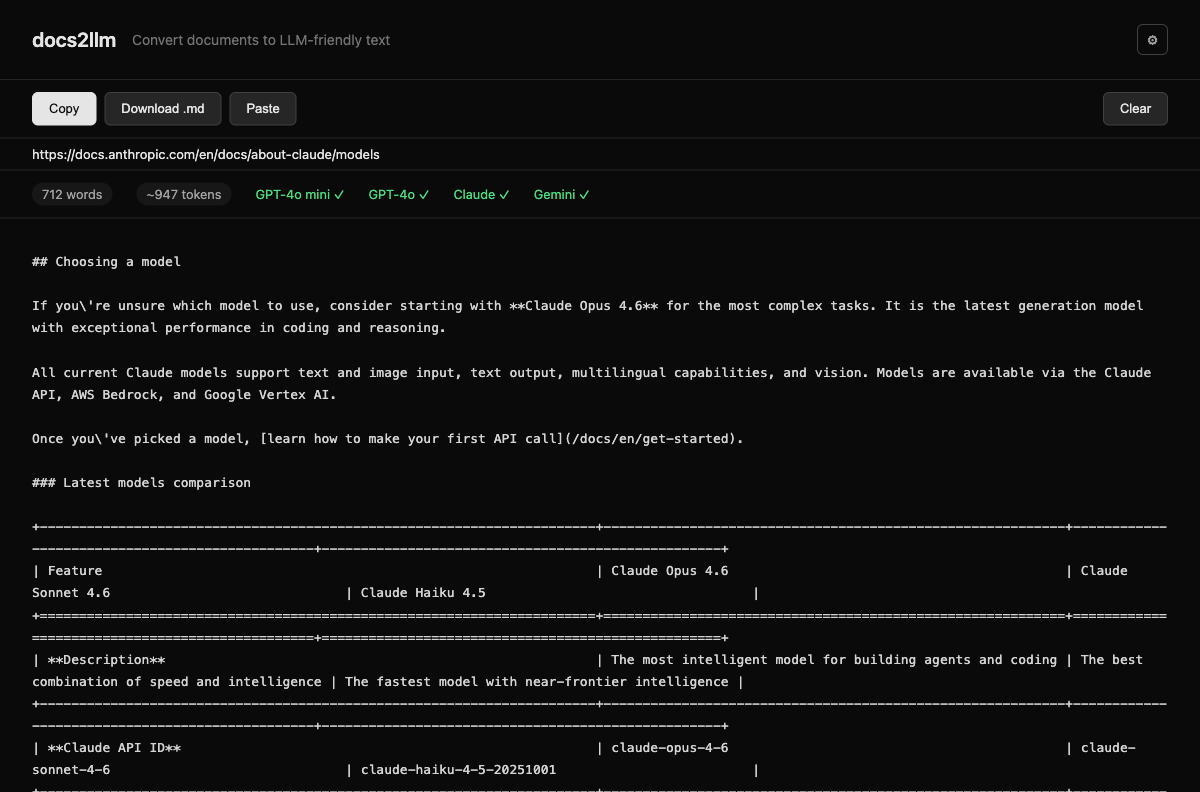
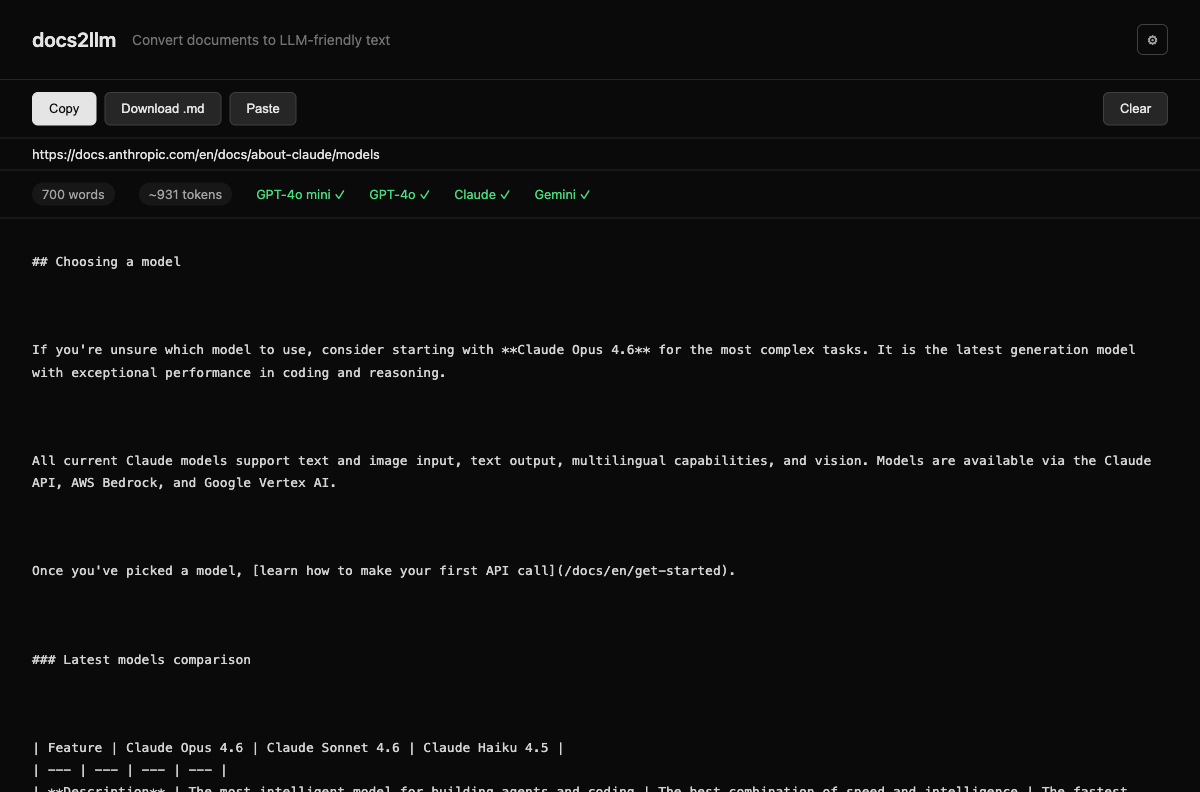
feat: swap HTML pipeline from Pandoc to Kreuzberg, update screenshot
Replace Defuddle+Pandoc with Defuddle+Kreuzberg for HTML → Markdown
conversion. Eliminates escaped quotes (you\'re), grid tables (+---+),
and escaped spaces (\ ) that Pandoc produced. Kreuzberg outputs clean
pipe tables and unescaped text. Pandoc retained only for email HTML
(MSO cleanup). Overall eval score: 0.94 → 0.95, PDF digital: 0.86 → 0.91.

Also retake web UI screenshot with clean Kreuzberg output and update
quality scores in README.

diff --git a/src/core/adapters/pandoc-html.ts b/src/core/adapters/pandoc-html.ts
@@ -1,13 +1,13 @@
 /**
- * Pandoc HTML extraction adapter.
+ * HTML extraction adapter.
  *
- * Specialized adapter for HTML → Markdown conversion. Uses Pandoc for
- * high-fidelity table handling (rowspan/colspan, grid tables), with
- * Kreuzberg as fallback when Pandoc is unavailable or fails.
+ * Specialized adapter for HTML → Markdown conversion. Uses Kreuzberg
+ * as the primary converter (clean pipe tables, no escaping artifacts),
+ * with Pandoc for email HTML cleanup and as a fallback.
  *
  * For article/webpage HTML, Defuddle preprocesses the HTML to strip
- * web boilerplate (nav, sidebar, footer, ads) before Pandoc conversion.
- * Email HTML and short fragments bypass Defuddle entirely.
+ * web boilerplate (nav, sidebar, footer, ads) before Kreuzberg conversion.
+ * Email HTML bypasses Defuddle and routes through Pandoc.
  */
 
 import type { Extractor, ExtractOptions, ExtractionResult, ExtractionWarning, EngineName } from "../extraction";
@@ -102,7 +102,17 @@ export function isFragmentHtml(html: string): boolean {
     && !/<body[\s>]/i.test(html);
 }
 
-/** Run Pandoc → Kreuzberg fallback chain on HTML. */
+/** Convert HTML to Markdown via Kreuzberg (primary path — clean output, pipe tables). */
+async function kreuzbergHtmlToMarkdown(html: string): Promise<string> {
+  const mod = await getKreuzberg();
+  const buffer = new TextEncoder().encode(html);
+  const result = await mod.extractBytes(buffer, "text/html", {
+    outputFormat: "markdown",
+  });
+  return result.content;
+}
+
+/** Run Pandoc → Kreuzberg fallback chain on HTML (used for email HTML). */
 async function pandocOrKreuzbergFallback(
   html: string,
   warnings: ExtractionWarning[],
@@ -116,21 +126,7 @@ async function pandocOrKreuzbergFallback(
     warnings.push("pandoc_fallback_to_kreuzberg");
   }
 
-  // Fallback: Kreuzberg (handles simple tables, no merged cell support)
-  const mod = await getKreuzberg();
-  const buffer = new TextEncoder().encode(html);
-  const result = await mod.extractBytes(buffer, "text/html", {
-    outputFormat: "markdown",
-    htmlOptions: {
-      preprocessing: {
-        enabled: true,
-        preset: "aggressive",
-        removeNavigation: true,
-        removeForms: true,
-      },
-    },
-  });
-  return result.content;
+  return kreuzbergHtmlToMarkdown(html);
 }
 
 export interface ConvertHtmlOptions {
@@ -140,9 +136,9 @@ export interface ConvertHtmlOptions {
 
 /**
  * Convert HTML to Markdown with intelligent routing:
- * - Email HTML (MSO artifacts): cleanEmailHtml → Pandoc
- * - Fragment HTML (<2KB, no <html>/<body>): straight to Pandoc
- * - Article/webpage HTML: Defuddle preprocessing → Pandoc
+ * - Email HTML (MSO artifacts): cleanEmailHtml → Pandoc (best for MSO cleanup)
+ * - Fragment HTML (<2KB, no <html>/<body>): straight to Kreuzberg
+ * - Article/webpage HTML: Defuddle preprocessing → Kreuzberg
  */
 export async function convertHtmlToMarkdown(
   html: string,
@@ -150,39 +146,37 @@ export async function convertHtmlToMarkdown(
 ): Promise<{ content: string; warnings: ExtractionWarning[]; engine: EngineName }> {
   const warnings: ExtractionWarning[] = [];
 
-  // Email HTML: use existing cleanup path, skip Defuddle
+  // Email HTML: Pandoc handles MSO cleanup best
   if (looksLikeEmailHtml(html)) {
     html = cleanEmailHtml(html);
     const content = await pandocOrKreuzbergFallback(html, warnings);
     return { content, warnings, engine: "pandoc-html" };
   }
 
-  // Fragment HTML: too short for Defuddle to help
+  // Fragment HTML: too short for Defuddle, use Kreuzberg directly
   if (isFragmentHtml(html)) {
-    const content = await pandocOrKreuzbergFallback(html, warnings);
-    return { content, warnings, engine: "pandoc-html" };
+    const content = await kreuzbergHtmlToMarkdown(html);
+    return { content, warnings, engine: "kreuzberg" };
   }
 
-  // Article/webpage HTML: try Defuddle preprocessing
+  // Article/webpage HTML: try Defuddle preprocessing → Kreuzberg
   if (!options?.skipDefuddle) {
     try {
       const defResult = await defuddleHtml(html);
       if (defResult) {
         warnings.push("defuddle_used");
-        // Feed Defuddle's cleaned HTML through Pandoc for table handling
-        const content = await pandocOrKreuzbergFallback(defResult.cleanedHtml, warnings);
-        return { content, warnings, engine: "defuddle+pandoc-html" };
+        const content = await kreuzbergHtmlToMarkdown(defResult.cleanedHtml);
+        return { content, warnings, engine: "defuddle+kreuzberg" };
       }
     } catch {
-      // Defuddle failed — fall through to existing path
+      // Defuddle failed — fall through to direct Kreuzberg
     }
   }
 
-  // Fallback: existing Pandoc → Kreuzberg path
+  // Fallback: Kreuzberg on raw HTML
   warnings.push("defuddle_empty_fallback");
-  html = cleanEmailHtml(html); // still clean MSO artifacts just in case
-  const content = await pandocOrKreuzbergFallback(html, warnings);
-  return { content, warnings, engine: "pandoc-html" };
+  const content = await kreuzbergHtmlToMarkdown(html);
+  return { content, warnings, engine: "kreuzberg" };
 }
 
 export class PandocHtmlExtractor implements Extractor {

diff --git a/test/extraction.test.ts b/test/extraction.test.ts
@@ -97,7 +97,7 @@ describe("ExtractionResult shape", () => {
     const data = new TextEncoder().encode(html);
     const result = await adapter.extractBytes(data, "text/html");
     assertExtractionResultShape(result);
-    expect(result.engine).toBe("pandoc-html");
+    expect(result.engine).toBe("kreuzberg");
     expect(result.sourceType).toBe("bytes");
     expect(result.contentMarkdown).toContain("Hello");
     expect(result.contentMarkdown).toContain("World");
@@ -240,7 +240,7 @@ describe("convertHtmlToMarkdown routing", () => {
       </body></html>`;
 
     const result = await convertHtmlToMarkdown(html);
-    expect(result.engine).toBe("defuddle+pandoc-html");
+    expect(result.engine).toBe("defuddle+kreuzberg");
     expect(result.warnings).toContain("defuddle_used");
     expect(result.content).toContain("Main Article");
   });
@@ -258,7 +258,7 @@ describe("convertHtmlToMarkdown routing", () => {
   test("does NOT use Defuddle for short fragment HTML", async () => {
     const html = "<h1>Title</h1><p>Short content</p>";
     const result = await convertHtmlToMarkdown(html);
-    expect(result.engine).toBe("pandoc-html");
+    expect(result.engine).toBe("kreuzberg");
     expect(result.warnings).not.toContain("defuddle_used");
   });
 
@@ -273,7 +273,7 @@ describe("convertHtmlToMarkdown routing", () => {
       </body></html>`;
 
     const result = await convertHtmlToMarkdown(html, { skipDefuddle: true });
-    expect(result.engine).toBe("pandoc-html");
+    expect(result.engine).toBe("kreuzberg");
     expect(result.warnings).not.toContain("defuddle_used");
   });
 });

diff --git a/test/convert.test.ts b/test/convert.test.ts
@@ -336,7 +336,7 @@ describe("convertHtmlToMarkdown", () => {
     expect(result).toContain("30");
   });
 
-  test("converts table with rowspan/colspan to table (grid or pipe)", async () => {
+  test("converts table with rowspan/colspan — preserves content", async () => {
     const html = [
       '<table border="1">',
       '<tr><td rowspan="2">Category</td><td colspan="2">Q4</td></tr>',
@@ -345,13 +345,10 @@ describe("convertHtmlToMarkdown", () => {
       '</table>',
     ].join("");
     const result = await convertHtmlToMarkdown(html);
-    // Pandoc ≥3.9 emits grid tables (+), older versions emit pipe tables (|)
-    expect(result).toMatch(/[+|]/);
+    // Kreuzberg may render complex tables as lists; content must be preserved
     expect(result).toContain("Category");
     expect(result).toContain("Revenue");
     expect(result).toContain("Product A");
-    // Should NOT be a bullet list (the old broken behavior)
-    expect(result).not.toContain("- Category");
   });
 
   test("strips Outlook conditional comments", async () => {

diff --git a/src/core/extraction.ts b/src/core/extraction.ts
@@ -7,7 +7,7 @@
  */
 
 // Engine identifiers (extensible for Defuddle, Docling, etc.)
-export type EngineName = "kreuzberg" | "kreuzberg-wasm" | "pandoc-html" | "defuddle+pandoc-html";
+export type EngineName = "kreuzberg" | "kreuzberg-wasm" | "pandoc-html" | "defuddle+pandoc-html" | "defuddle+kreuzberg";
 
 // How the source was provided
 export type SourceType = "file" | "bytes" | "html-string" | "url";

diff --git a/README.md b/README.md
@@ -101,8 +101,8 @@ Quality is measured, not guessed. An evaluation harness runs against real-world 
 | DOCX / XLSX | 1.0 |
 | Article HTML | 0.99 |
 | Webpage HTML | 0.96 |
+| PDF (digital) | 0.91 |
 | PPTX | 0.91 |
-| PDF (digital) | 0.86 |
 | Email HTML | 0.84 |
 
 Scores are tracked across releases. See [eval/](eval/) for methodology and fixtures.
